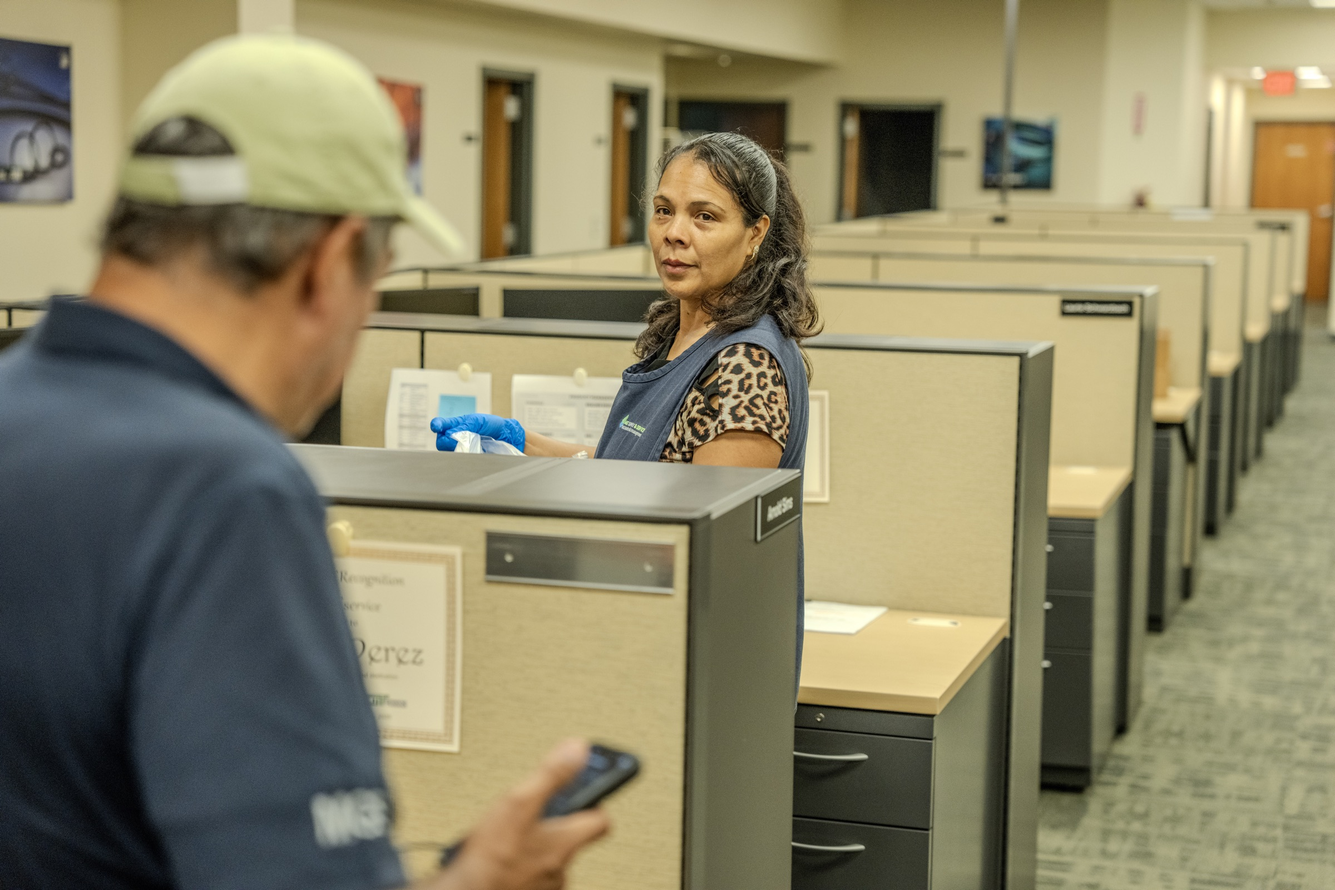
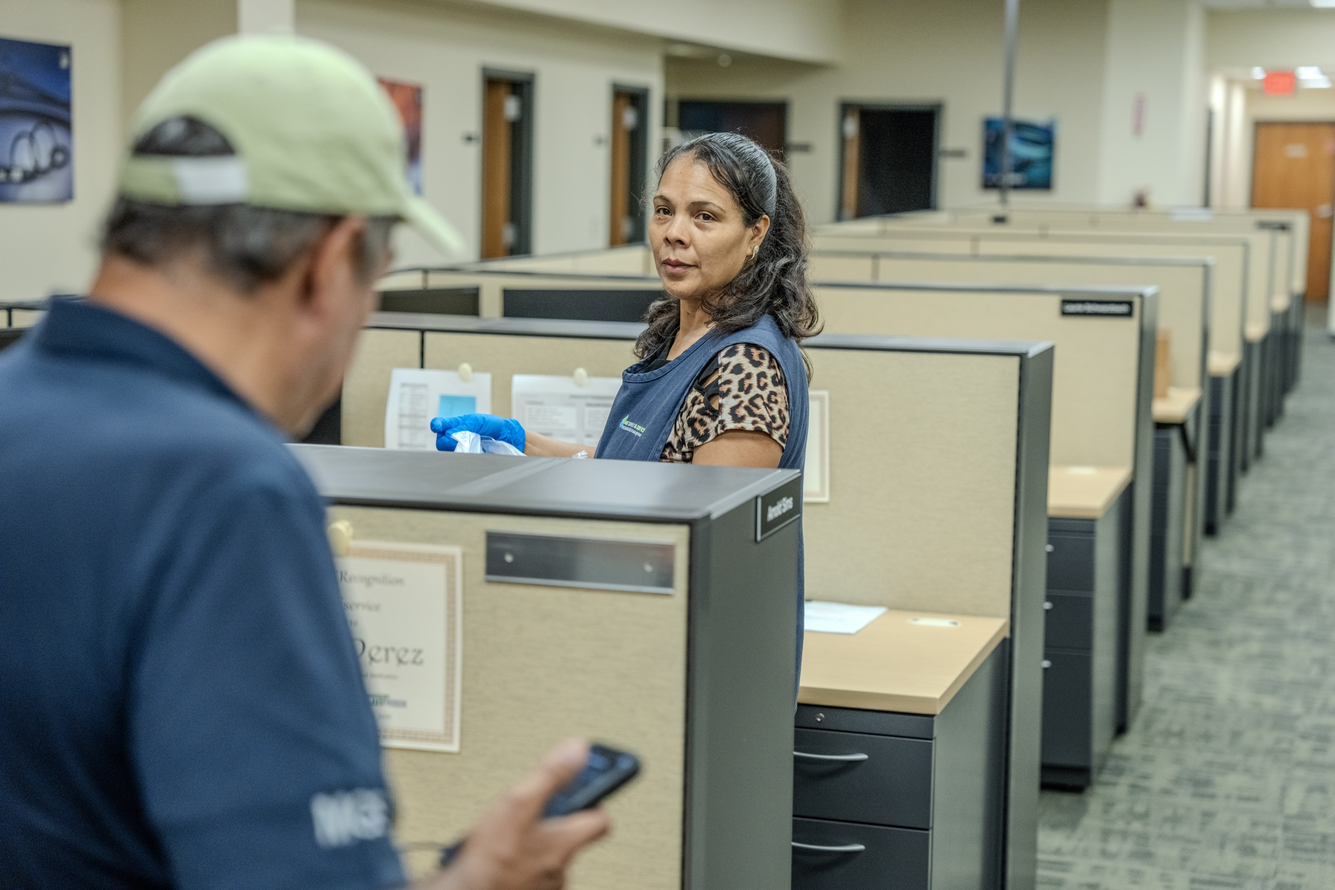
Re-graded field photographs, and scale the app beats down on phones
Two things.

The walk and the signature-capture photographs are replaced with fresh exports
from the same frames — re-graded, not reframed. Composition is identical, so the
object-position and parallax values tuned for the old files still hold and were
left alone. Both come off the 9984x6656 originals, resampled to 2400x1600 at
quality 82 to match the files they replace (795KB and 921KB against 741KB and
752KB). Confirmed they actually differ: the two files diverge even at an 8x8
thumbnail, which averages away compression noise, so the change is tonal rather
than a re-encode of the same pixels.

The app beats were too big on a phone. At 76% of a 430pt viewport the device
measured ~327pt wide — close enough to the real thing that a phone rendered
inside a phone stopped reading as an illustration and started reading as a
glitch. It is 58% now, and everything on the block steps down with it so the
beat scales as one object rather than a shrunk device beside full-size copy:
headline 28px to 22px, body 16px to 15px, the callout chip and its icon a size
smaller, panel padding and its overlap tighter, and less air between beats.

Every change is on the base breakpoint only. `sm:` and `lg:` values are
untouched, and desktop is unchanged where it matters: the device still measures
363px at 1440 and the headline still resolves to 43px. The type reductions are
changes to the clamp MINIMUMS, which is the phone end of the scale and nothing
above it.
[…]

diff --git a/src/components/sections/app-beats.tsx b/src/components/sections/app-beats.tsx
@@ -126,8 +126,8 @@ export function AppBeats() {
               "relative",
               // The hairline is the section break. It belongs between beats, so
               // the first one does without.
-              i > 0 ? "border-t border-white/10 pt-20 lg:pt-32" : "",
-              i > 0 ? "mt-20 lg:mt-32" : "",
+              i > 0 ? "border-t border-white/10 pt-14 sm:pt-20 lg:pt-32" : "",
+              i > 0 ? "mt-14 sm:mt-20 lg:mt-32" : "",
             ].join(" ")}
           >
             <div className="lg:grid lg:grid-cols-12 lg:items-center">
@@ -141,7 +141,16 @@ export function AppBeats() {
                   // `beat` size reads it, and the callout below positions itself
                   // off it — so resizing the device cannot leave the chip
                   // anchored to where the device used to be.
-                  "[--phone-w:76%] sm:[--phone-w:60%] lg:[--phone-w:54%]",
+                  //
+                  // 58% on phones, not 76%. At 76% of a 430pt viewport the
+                  // device was ~327pt wide — close enough to the real thing
+                  // that a phone rendered inside a phone stopped reading as an
+                  // illustration and started reading as a glitch. Smaller
+                  // restores the separation. Everything else on this block
+                  // steps down with it (type, padding, chip) so the beat scales
+                  // as one thing rather than a shrunk device beside full-size
+                  // copy. `sm:` and `lg:` are unchanged — desktop is untouched.
+                  "[--phone-w:58%] sm:[--phone-w:60%] lg:[--phone-w:54%]",
                   "-mx-6 sm:-mx-10 lg:mx-0",
                   "lg:row-start-1",
                   captureRight
@@ -202,7 +211,7 @@ export function AppBeats() {
                     // pointing at is worse than no chip. The clock and the
                     // battery are the only pixels here nobody needs.
                     "absolute top-[4%] z-20 flex items-center gap-2.5",
-                    "bg-brand-lime px-4 py-3 text-[#111111] sm:px-5",
+                    "bg-brand-lime px-3 py-2 text-[#111111] sm:px-5 sm:py-3",
                     // The device is centred, so its edges sit at
                     // 50% ± --phone-w/2. Anchoring the chip there puts most of
                     // it out on the dark field and laps only ~56px onto the
@@ -216,10 +225,10 @@ export function AppBeats() {
                   ].join(" ")}
                 >
                   <beat.callout.icon
-                    className="h-4 w-4 flex-shrink-0"
+                    className="h-3.5 w-3.5 flex-shrink-0 sm:h-4 sm:w-4"
                     strokeWidth={2}
                   />
-                  <span className="whitespace-nowrap text-[12px] font-semibold leading-none sm:text-[13px]">
+                  <span className="whitespace-nowrap text-[10.5px] font-semibold leading-none sm:text-[13px]">
                     {beat.callout.text}
                   </span>
                 </div>
@@ -233,7 +242,7 @@ export function AppBeats() {
               <div
                 className={[
                   "relative z-10 bg-[#F4F4F1] text-[#111111]",
-                  "-mt-12 mr-6 px-7 py-9 sm:mr-10 sm:px-10 sm:py-12",
+                  "-mt-10 mr-5 px-6 py-7 sm:-mt-12 sm:mr-10 sm:px-10 sm:py-12",
                   "lg:row-start-1 lg:mx-0 lg:mt-0 lg:px-12 lg:py-14",
                   // The panel and the capture are ADJACENT columns; the overlap
                   // is this negative margin, not a shared grid column. Letting
@@ -251,7 +260,7 @@ export function AppBeats() {
                 <h3
                   className="font-gothic"
                   style={{
-                    fontSize: "clamp(1.75rem, 3vw, 2.75rem)",
+                    fontSize: "clamp(1.375rem, 3vw, 2.75rem)",
                     fontWeight: 300,
                     lineHeight: 1.1,
                     letterSpacing: "-0.025em",
@@ -263,7 +272,7 @@ export function AppBeats() {
                 <p
                   className="mt-6 max-w-xl text-[#3F3F3A]"
                   style={{
-                    fontSize: "clamp(1rem, 1.15vw, 1.0625rem)",
+                    fontSize: "clamp(0.9375rem, 1.15vw, 1.0625rem)",
                     fontWeight: 300,
                     lineHeight: 1.75,
                   }}
